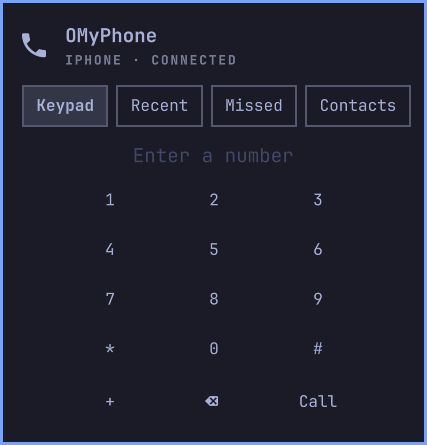
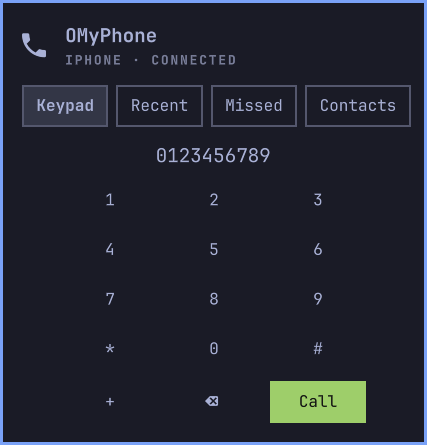
Show the keypad's Call in green
Before a number is typed only the text is green; with a number, Call is
filled green like Answer. The preview image shows it filled.

Changed region(s): [[0.6089, 0.8472, 0.8829, 0.964], [0.3044, 0.3213, 0.6698, 0.3798]]

diff --git a/CallButton.qml b/CallButton.qml
@@ -1,15 +1,20 @@
 import QtQuick
+import qs.Commons
 import qs.Ui
 
 // A call-control button filled with one color (Answer green, Decline and
 // Hang up red), a little lighter under the mouse. The text is dark or light,
-// whichever reads better on the fill.
+// whichever reads better on the fill. With filled false, only the text has the
+// color (the keypad's Call before a number is typed).
 Button {
   id: root
 
   property color fill: "transparent"
+  property bool filled: true
 
-  background: fill
-  foreground: 0.299 * fill.r + 0.587 * fill.g + 0.114 * fill.b > 0.6 ? "#111111" : "#ffffff"
-  color: hot ? Qt.lighter(fill, 1.15) : fill
+  background: filled ? fill : "transparent"
+  foreground: !filled ? fill
+    : 0.299 * fill.r + 0.587 * fill.g + 0.114 * fill.b > 0.6 ? "#111111" : "#ffffff"
+  color: filled ? (hot ? Qt.lighter(fill, 1.15) : fill)
+    : (hot ? Style.hoverFillFor(foreground, accent) : "transparent")
 }

diff --git a/KeypadView.qml b/KeypadView.qml
@@ -68,10 +68,11 @@ Column {
       tooltipText: "Delete"
       onClicked: root.backspace()
     }
-    Button {
+    CallButton {
       width: Style.space(72)
       text: "Call"
-      active: root.number !== ""
+      fill: root.phone ? root.phone.answerColor : Color.accent
+      filled: root.number !== ""
       onClicked: root.call()
     }
   }
